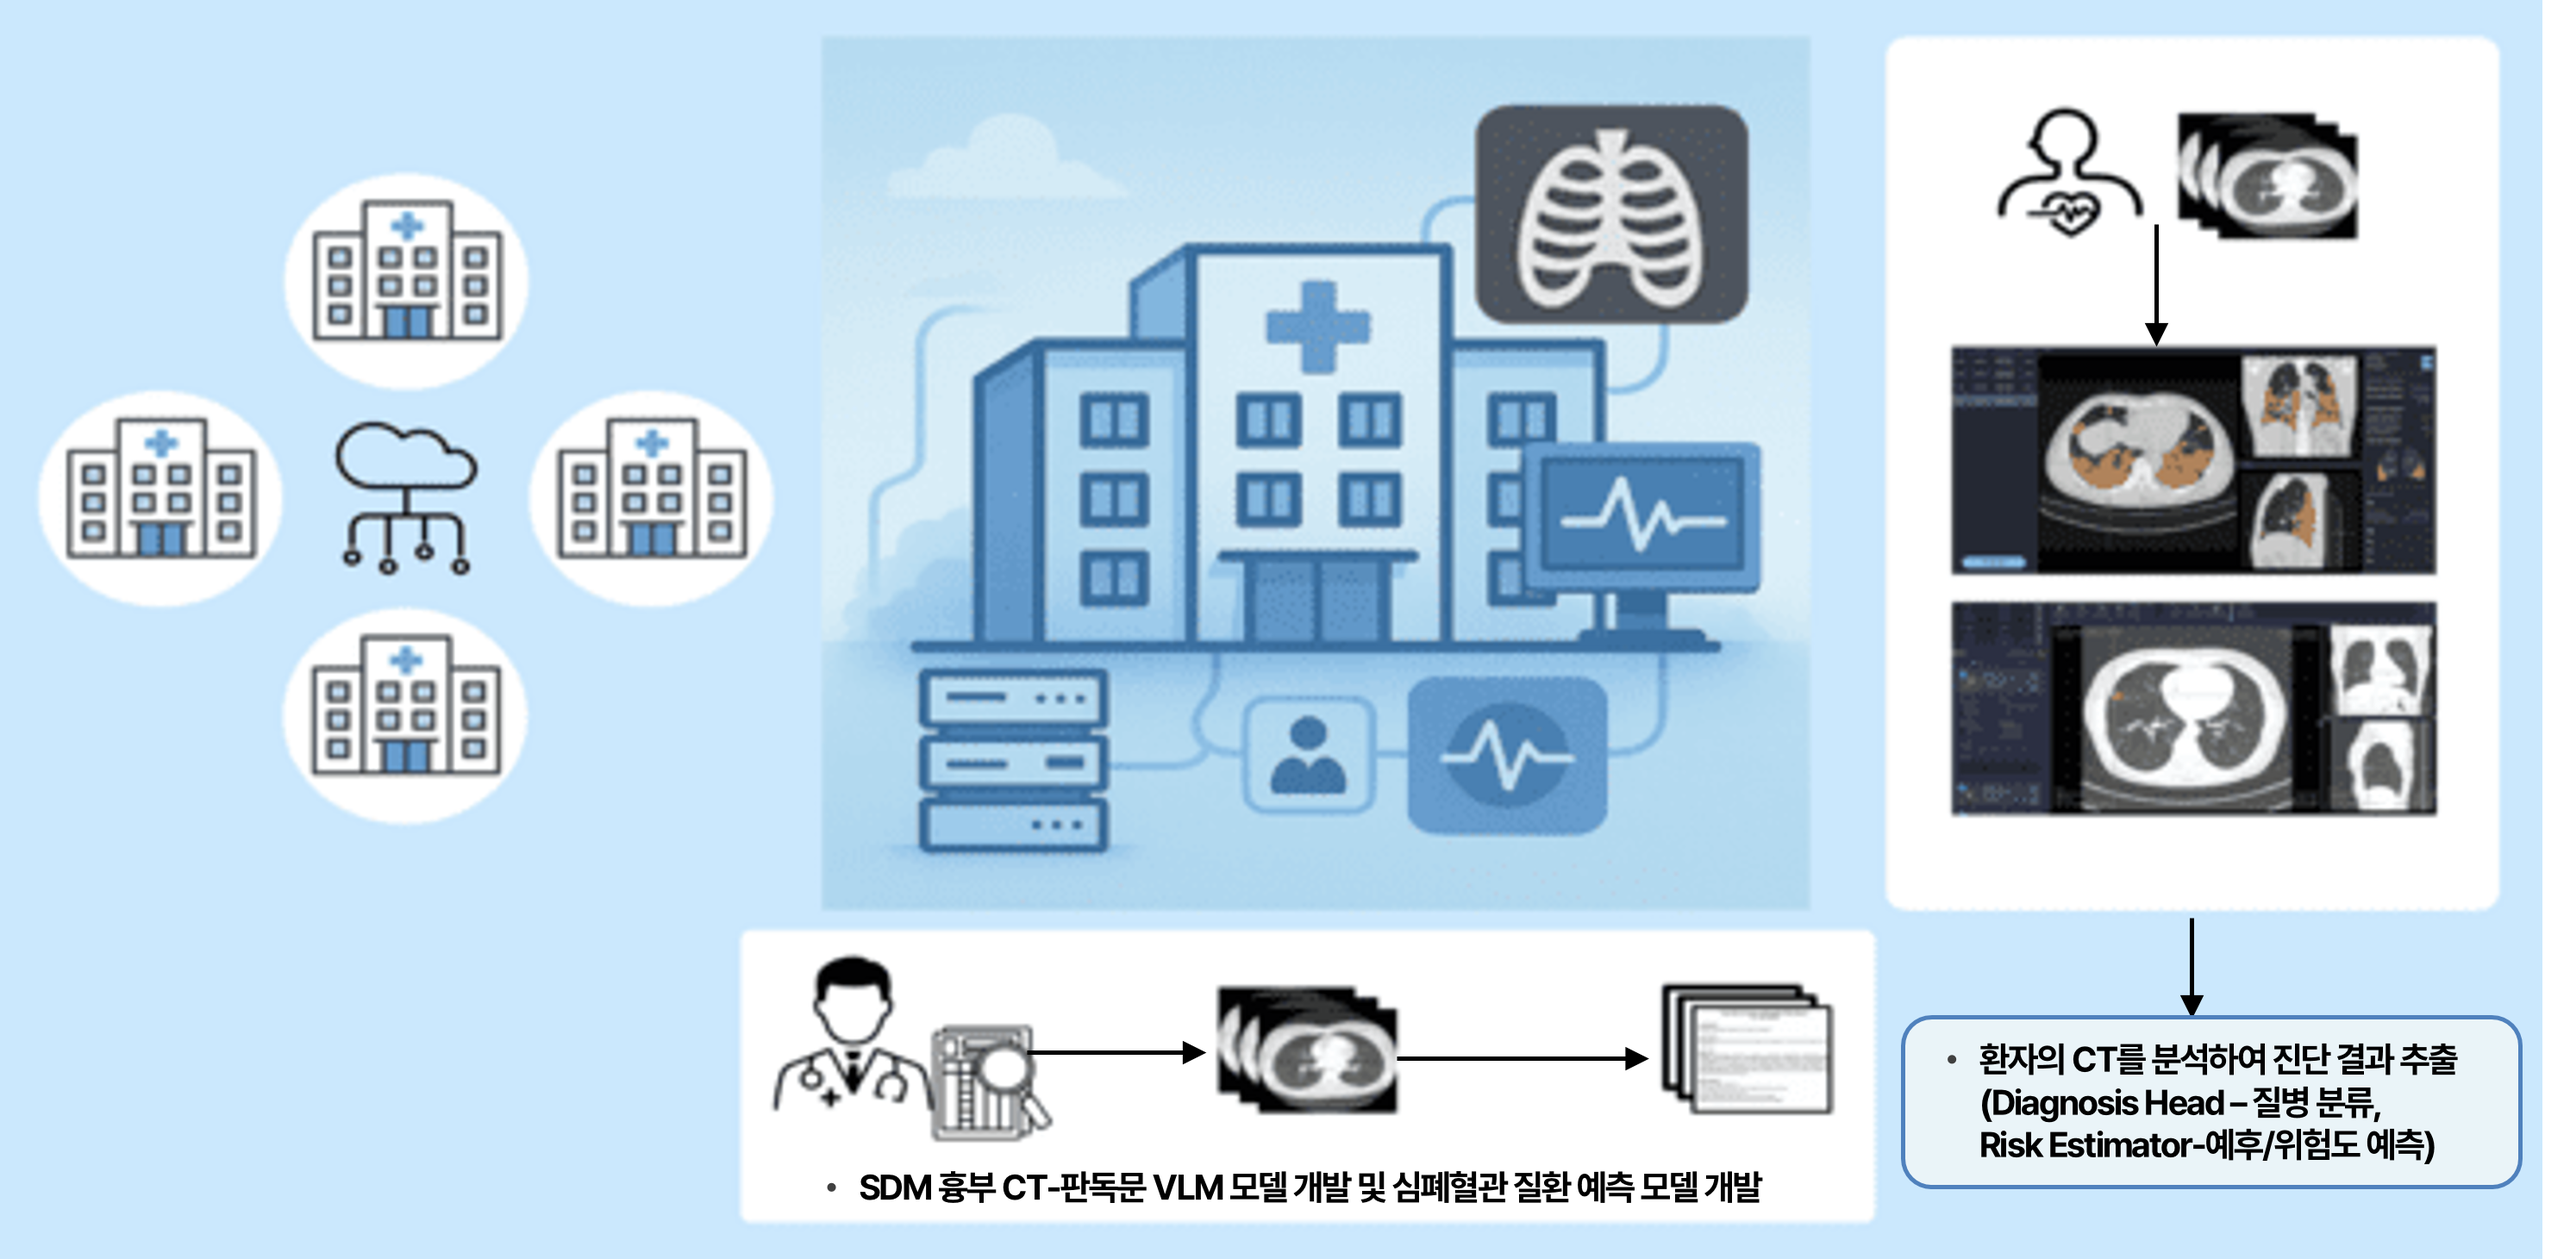
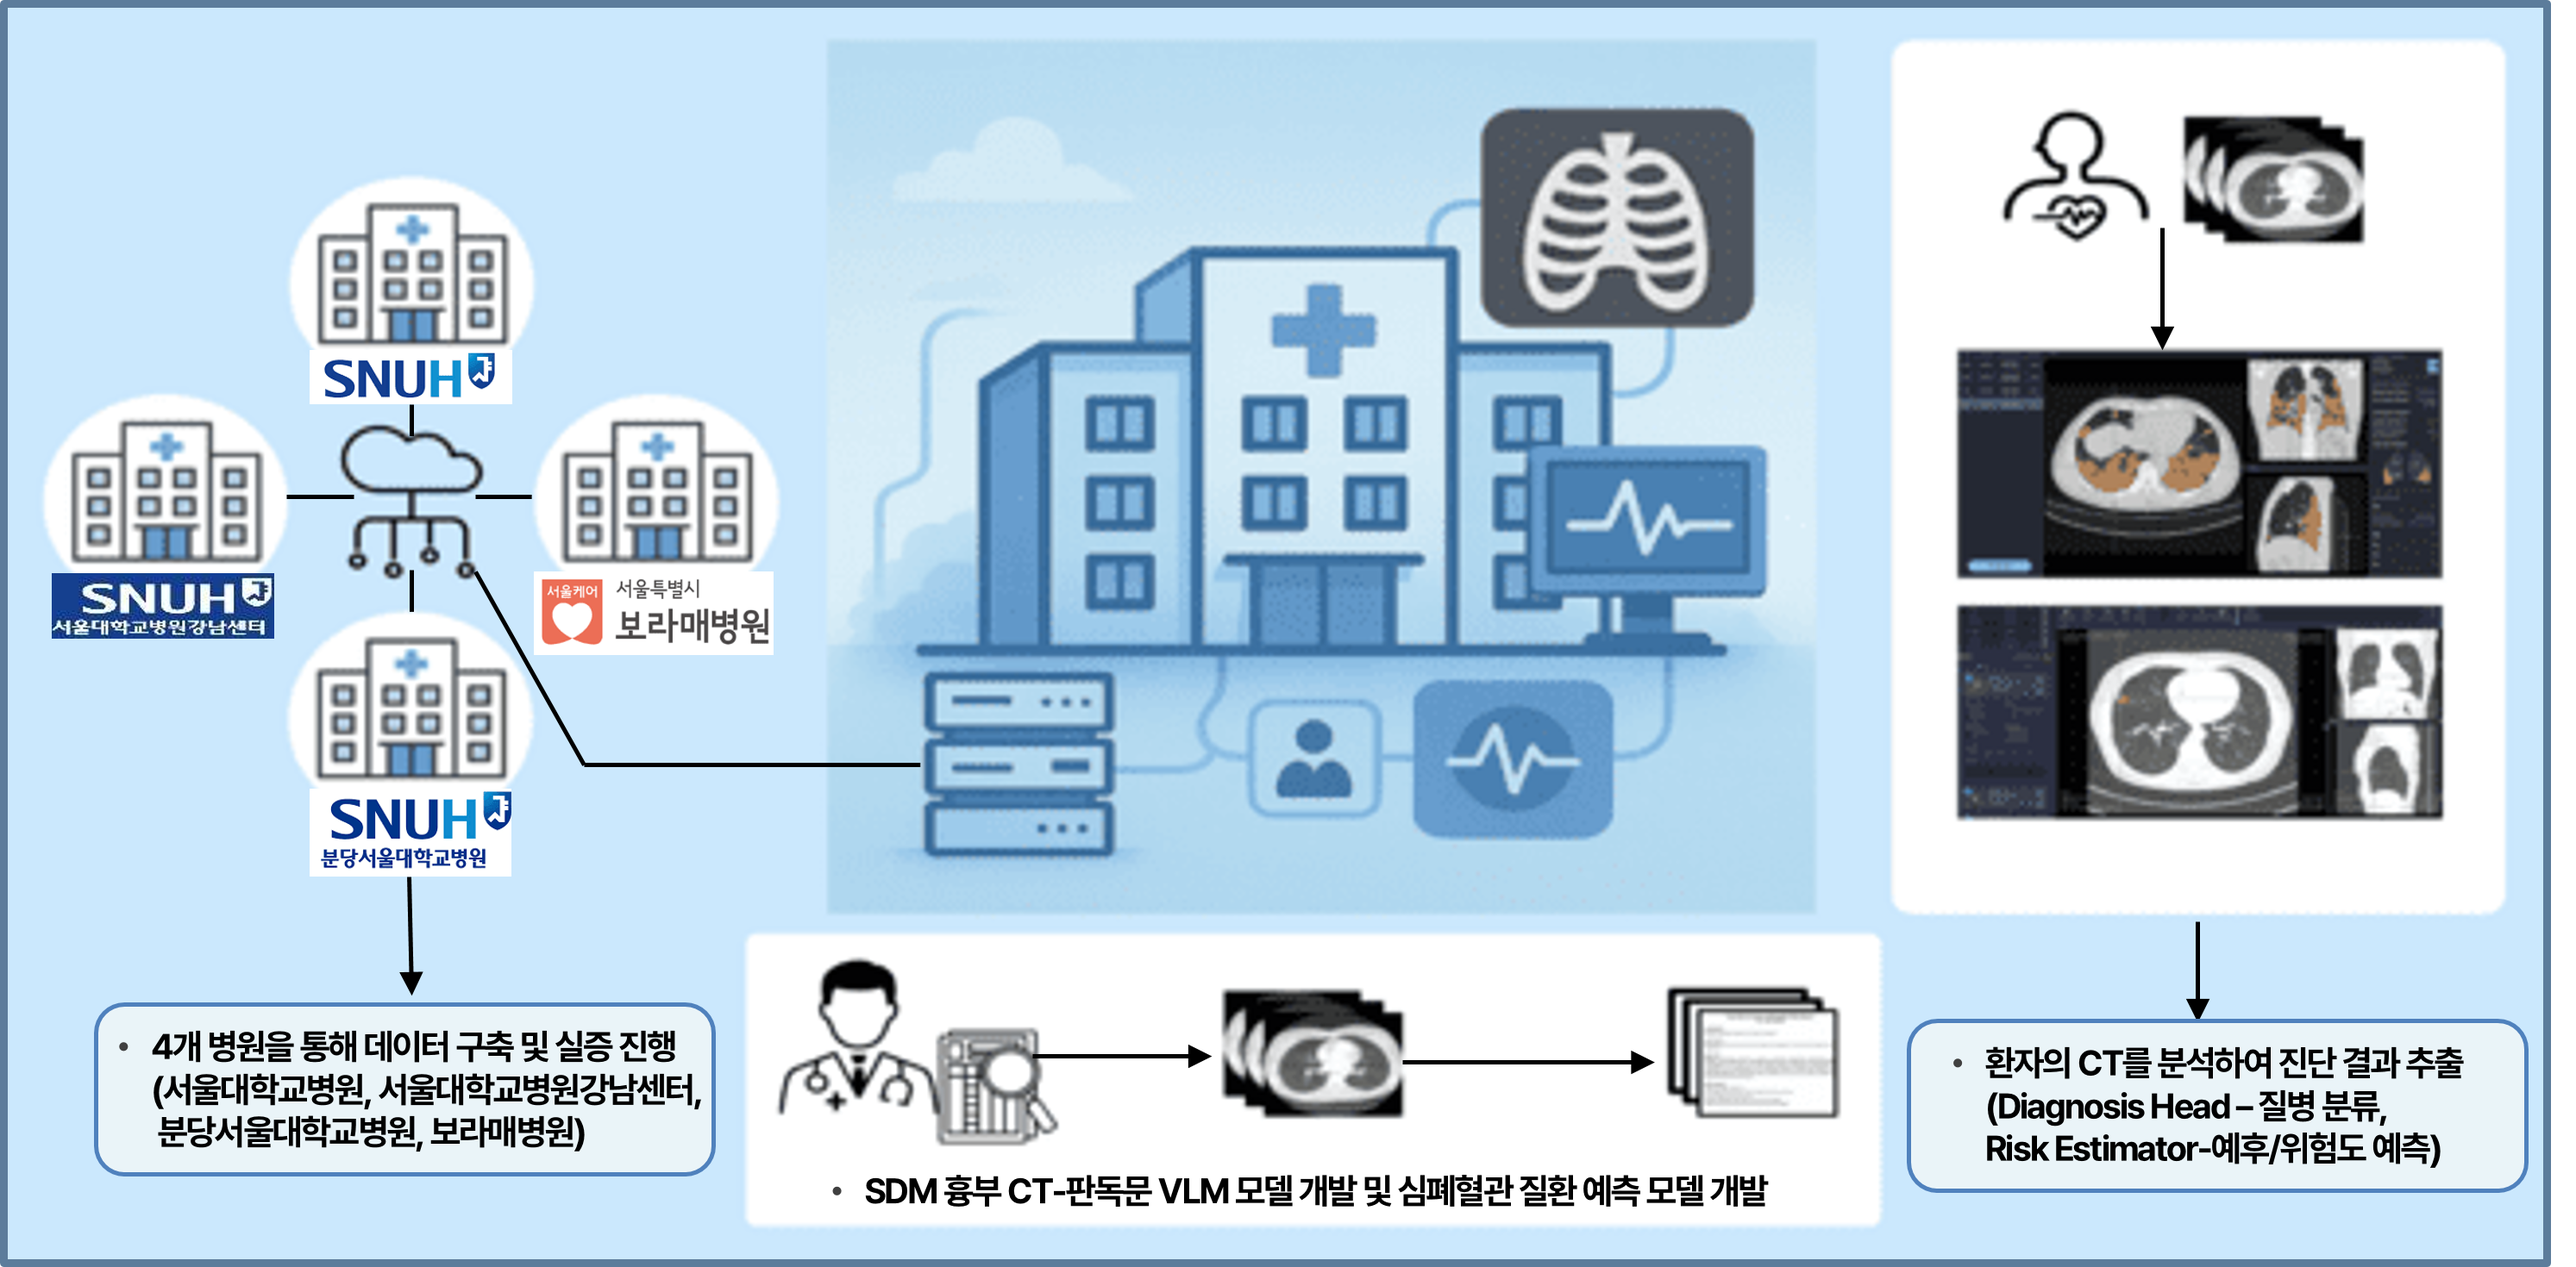
README 내용 보완, 개념도 수정/변경, 각 모듈 별 README 파일 링크 추가

diff --git a/README.md b/README.md
@@ -6,7 +6,8 @@ This is the official repository contains the sources of the project **TANGO 2** 
 
 ## [**2025 4th TANGO Community Conference**](http://tangoai.or.kr) ##
 * [**STCenter** (과학기술컨벤션센터 / 한국과학기술회관)](https://www.stcenter.or.kr/)
-* [**B1F, 22, Teheran-ro 7-gil, Gangnam-gu, Seoul, Republic of Korea** (서울시 강남구 테헤란로 7길 22, 과학기술회관 대회의실1)](https://www.google.com/maps/place/%ED%95%9C%EA%B5%AD%EA%B3%BC%ED%95%99%EA%B8%B0%EC%88%A0%ED%9A%8C%EA%B4%80/data=!4m15!1m8!3m7!1s0x357ca157ddbed32f:0x29432bdf4b90af3d!2z7ISc7Jq47Yq567OE7IucIOqwleuCqOq1rCDthYztl6TrnoDroZw36ri4IDIy!3b1!8m2!3d37.500961!4d127.0306229!16s%2Fg%2F11bzn06m8v!3m5!1s0x357ca157de00cbb3:0xe5266ee55f1d179e!8m2!3d37.5007029!4d127.0307453!16s%2Fg%2F1tf8508h?entry=ttu&g_ep=EgoyMDI1MTAxNC4wIKXMDSoASAFQAw%3D%3D)
+* [**B1F, 22, Teheran-ro 7-gil, Gangnam-gu, Seoul, Republic of Korea** \
+(서울시 강남구 테헤란로 7길 22, 과학기술회관 대회의실1)](https://www.google.com/maps/place/%ED%95%9C%EA%B5%AD%EA%B3%BC%ED%95%99%EA%B8%B0%EC%88%A0%ED%9A%8C%EA%B4%80/data=!4m15!1m8!3m7!1s0x357ca157ddbed32f:0x29432bdf4b90af3d!2z7ISc7Jq47Yq567OE7IucIOqwleuCqOq1rCDthYztl6TrnoDroZw36ri4IDIy!3b1!8m2!3d37.500961!4d127.0306229!16s%2Fg%2F11bzn06m8v!3m5!1s0x357ca157de00cbb3:0xe5266ee55f1d179e!8m2!3d37.5007029!4d127.0307453!16s%2Fg%2F1tf8508h?entry=ttu&g_ep=EgoyMDI1MTAxNC4wIKXMDSoASAFQAw%3D%3D)
 * **2025-11-06 / 13:30~17:30**
 
 ---
@@ -27,8 +28,12 @@ TANGO2
    ├── Deployment
    │   ├── Optimization
    │   └── Runtime_Engine
+   │       ├── kernel_source
+   │       └── monitoring
    │
    ├── GenAI_Platform
+   │
+   ├── Intent_Detection
    │
    ├── Learning
    │
@@ -41,45 +46,80 @@ TANGO2
        └── simulator
 ```
 
-<img width="640" alt="framework" src="docs/framework.png" />
+<img width="1280" alt="flow" src="docs/workflow.png" />
+
+---
+
+## How to use it ##
+
+* coming soon...
 
 ---
 
 ## └─ Data_Augmentation ##
-<img width="480" alt="augment" src="docs/augment.png" />
+
+* fewshot_prompting \
+[[View Details]](Data_Augmentation/fewshot_prompting/README.md)
 
 ---
 
 ## └─ Deployment ##
-<img width="480" alt="deploy" src="docs/deploy.png" />
+
+* Optimization \
+[[View Details]](Deployment/Optimization/README.md)
+
+* Runtime_Engine
+  * kernel_source \
+  [[View Details]]()
+  * monitoring \
+  [[View Details]](Deployment/Runtime_Engine/README.md)
 
 ---
 
 ## └─ GenAI_Platform ##
-<img width="480" alt="work" src="docs/work.png" />
+
+* This is a complete LLMOps platform for developing large-scale language models for enterprises. \
+[[View Details]](GenAI_Platform/README.md)
+
+---
+
+## └─ Intent_Detection ##
+* [[View Details]]()
 
 ---
 
 ## └─ Learning ##
-<img width="480" alt="gen" src="docs/gen.png" />
+* [[View Details]]()
 
 ---
 
 ## └─ SDF ##
-* Software Defined Farming
+* Software Defined Farming \
+[[View Details]](SDF/README.md)
+
 <img width="1280" alt="SDF" src="docs/sdf.png" />
+
+* The goal is to comprehensively monitor plant growth environments and conditions and demonstrate technologies for improving agricultural productivity and sustainable agriculture using large-scale AI models.
 
 ---
 
 ## └─ SDM ##
-* Software Defined Medicine
+* Software Defined Medicine \
+[[View Details]](SDM/README.md)
+
 <img width="1280" alt="SDM" src="docs/sdm.png" />
+
+* The goal is to develop a VLM based on chest CT interpretation and a cardiopulmonary disease prediction model technology and to validate it in a multi-institutional hospital.
 
 ---
 
 ## └─ SDS ##
-* Software Defined Ship
+* Software Defined Ship \
+[[View Details]](SDS/README.md)
+
 <img width="1280" alt="SDS" src="docs/sds.png" />
+
+* The goal is to develop a navigation situation description agent for autonomous navigation based on VLM and a decision-making and navigation assistance agent for autonomous navigation based on sLLM using a self-built dataset, and to demonstrate their performance in real sea areas.
 
 ---
 
